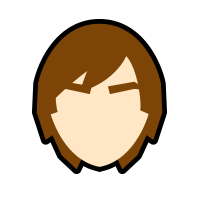
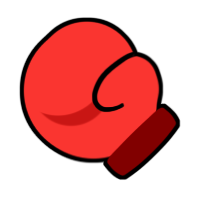
feat: agregar opción "Random" en el panel de control y añadir imagen correspondiente

diff --git a/public/overlays/warui/controls.html b/public/overlays/warui/controls.html
@@ -214,6 +214,7 @@
       <option value="Pit.png">Pit</option>
       <option value="Pokemon Trainer.png">Pokemon Trainer</option>
       <option value="Pyra Mythra.png">Pyra / Mythra</option>
+      <option value="Random.png">Random</option>
       <option value="R.O.B.png">R.O.B.</option>
       <option value="Richter.png">Richter</option>
       <option value="Ridley.png">Ridley</option>
@@ -310,6 +311,7 @@
       <option value="Pit.png">Pit</option>
       <option value="Pokemon Trainer.png">Pokemon Trainer</option>
       <option value="Pyra Mythra.png">Pyra / Mythra</option>
+      <option value="Random.png">Random</option>
       <option value="R.O.B.png">R.O.B.</option>
       <option value="Richter.png">Richter</option>
       <option value="Ridley.png">Ridley</option>